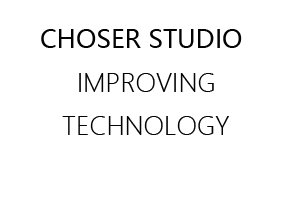
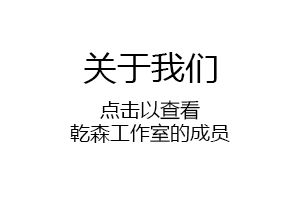
科技节更新！
其实还有一堆顺带的小更新

Changed region(s): [[0.12, 0.12, 0.81, 0.72]]

diff --git a/index.html b/index.html
@@ -53,15 +53,15 @@
 	<div class="container">
 		<div class="banner-main">
 			<h1>WELCOME TO CHOSER STUDIO</h1>
-			<p>乾森工作室参加2017年西大附中中考百日誓师后台制作</p>
+			<p>乾森工作室联合西大附中IT社开展科技节项目</p>
 		 <div class="bwn">
-			<a href="project.html">查看更多项目</a>
+			<a href="project.html">查看项目</a>
 		</div>
 		</div>
 	</div>
 </div>
 <div class="section1">
-       <div onClick="location.href='project.html#improve'">
+       <div onClick="location.href='about.html'">
 	   <div class="col-md-4 below-coloum" style="display:inline">
 	   	<a href="#"></a>
 	   </div>
@@ -69,9 +69,10 @@
 	   </div>
        </div>
 	   <span style="font-size: 36%"></span>	   <span style="font-size: 80%"></span>	   <span style="font-size: 80%"></span>	   <span style="font-size: 100%"></span>	
-	   <div class="col-md-5 below-side" onClick="location.href='project.html#sport'">
+	   <div class="col-md-5 below-side" onClick="location.href='http://space.bilibili.com/99004576/#!/'">
 		 <h2><a href="#">Excited!</a></h2>
-			<p>来看CHOSER STUDIO关于校运会的报道！</p>
+			<p>乾森工作室bilibili账号已开通</p>
+            <p>点击以查看</p>
 	   </div>
   <div class="clearfix"> </div>
 </div>

diff --git a/project.html b/project.html
@@ -63,12 +63,12 @@
 			</div>
 			<div class="event-top">
 			  <div class="col-md-6  e-left"> <a name="NY">
-			    <h4> March 2017</h4>
+			    <h4> April 2017</h4>
 			    </a> <img src="images/unknown.jpg"  alt=""/></div>
 			  <div class="col-md-6  e-right">
 			    <h3>代号“Big Screen”</h3>
-			    <p> &nbsp; &nbsp; &nbsp; &nbsp;3月29日解封</p>
-                <p> &nbsp; &nbsp; &nbsp; &nbsp;敬请期待</p>
+                <p> &nbsp; &nbsp; &nbsp; &nbsp;乾森工作室与IT社合作的科技节项目</p>
+			    <p> &nbsp; &nbsp; &nbsp; &nbsp;4月6日，敬请期待</p>
 			    <div class="event-icon">
 			      <ul>
 			        <li><a href="#"><span class="s"> </span></a></li>
